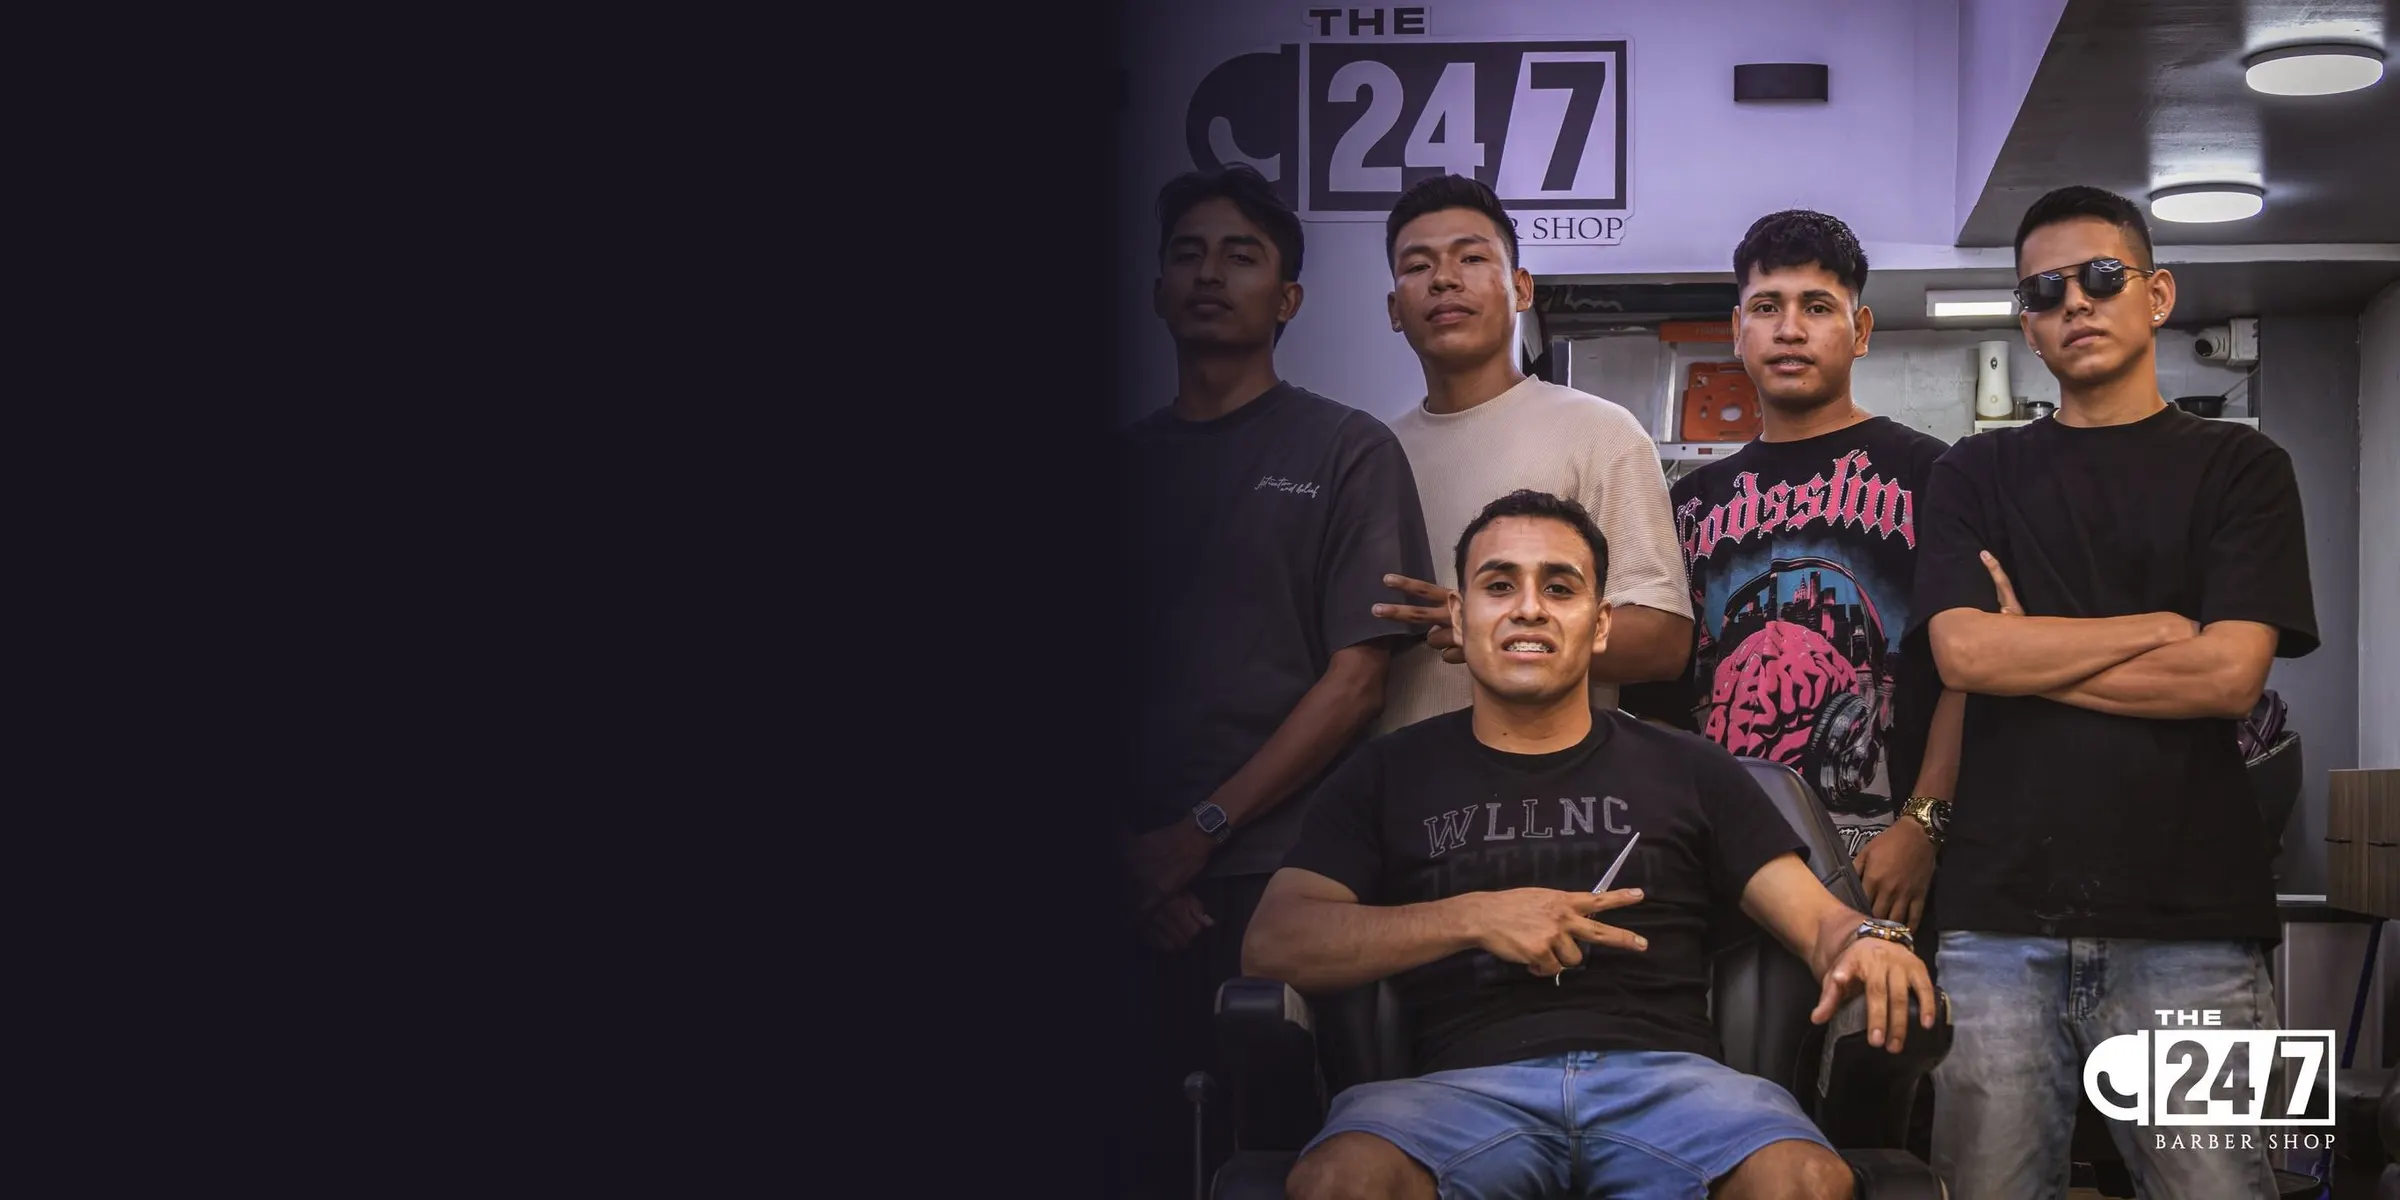
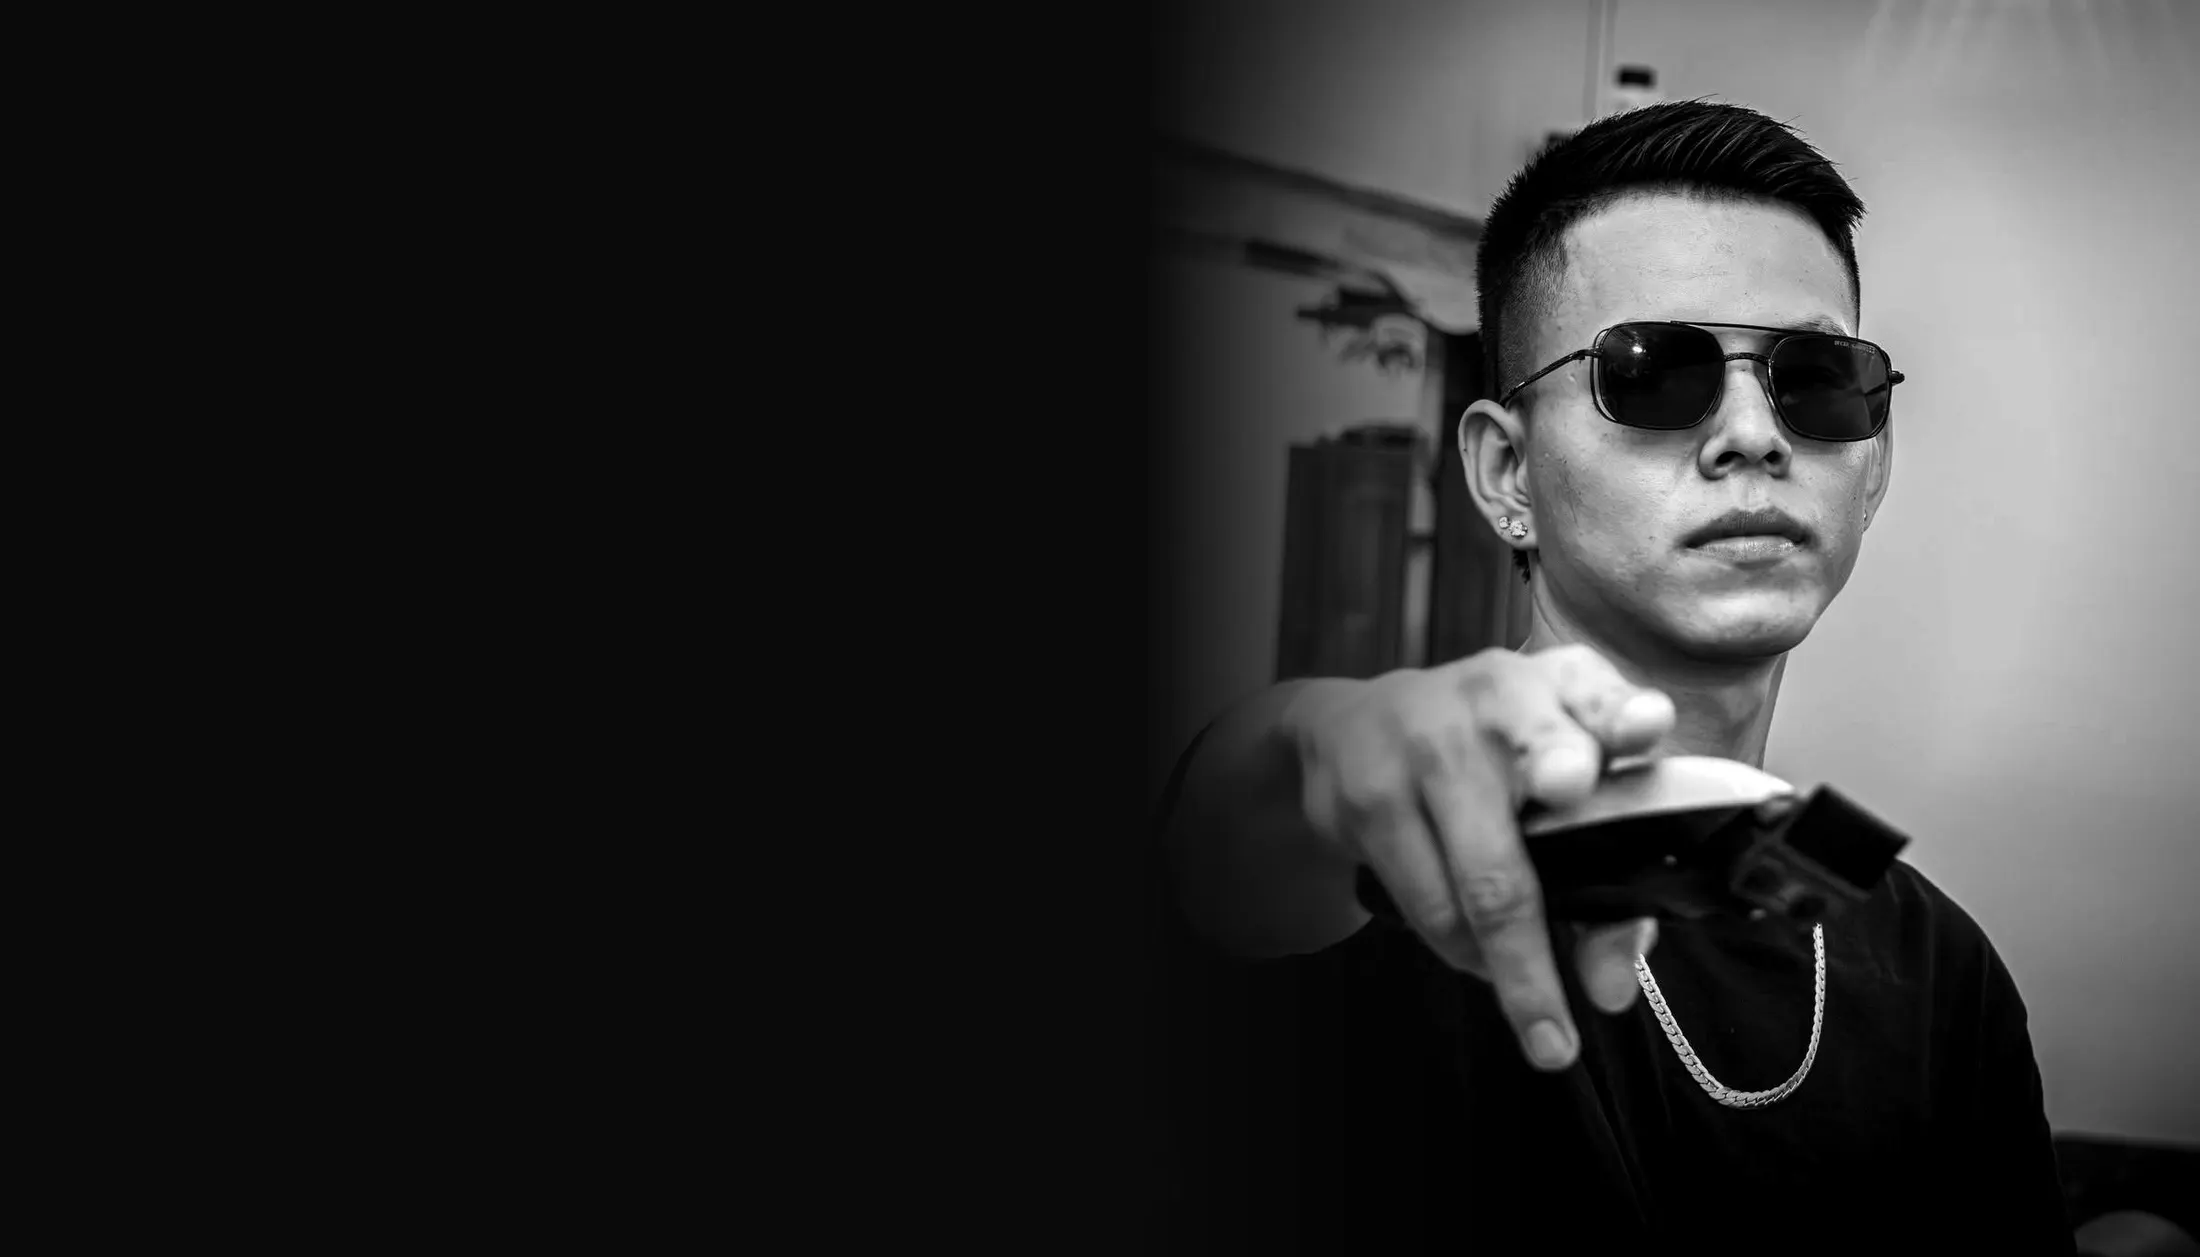
feat(luxury): portada propia para el celular; The 24/7 en blanco y negro
- apariencia.portadaLuxuryMovil: la portada vertical del celular (≤700 px). Sin ella, la misma
  de la compu, como hasta ahora.
- The 24/7: portada nueva en blanco y negro con contraste fuerte y viñeta. En la compu, ancha con
  la cara a la derecha (sin cortar el pelo ni el logo de agua); en el celular, vertical con la
  cara arriba (scripts/the247-portada.sql la activa).

diff --git a/modules/tu-pagina/publico/LuxuryPortada.tsx b/modules/tu-pagina/publico/LuxuryPortada.tsx
@@ -15,6 +15,8 @@ type Props = {
   logo?: string;
   portada?: string;
   portadaSecundaria?: string;
+  /** La portada en el celular (vertical, cara arriba). Sin ella, la misma de la compu. */
+  portadaMovil?: string;
   servicio?: ServicioDestacado;
   inicioHref: string;
   reservarHref: string;
@@ -23,7 +25,7 @@ type Props = {
 };
 
 /** El desplazamiento vertical mueve lateralmente las dos escenas, también en móvil. */
-export default function LuxuryPortada({ titulo, frase, etiqueta, logo, portada, portadaSecundaria, servicio, inicioHref, reservarHref, catalogoDisponible, catalogoProductosDisponible = false }: Props) {
+export default function LuxuryPortada({ titulo, frase, etiqueta, logo, portada, portadaSecundaria, portadaMovil, servicio, inicioHref, reservarHref, catalogoDisponible, catalogoProductosDisponible = false }: Props) {
   const marco = useRef<HTMLDivElement>(null);
   const fijo = useRef<HTMLDivElement>(null);
   const pista = useRef<HTMLDivElement>(null);
@@ -94,7 +96,8 @@ export default function LuxuryPortada({ titulo, frase, etiqueta, logo, portada, 
   return <div className="tp-luxury-motion" ref={marco} data-escena={escena}>
     <div className="tp-luxury-motion__fijo" ref={fijo}>
       <div className="tp-luxury-motion__pista" ref={pista}>
-        <section className={`tp-luxury-hero${!portada || portada === PORTADA_LUXURY ? ' tp-luxury-hero--foto-ejemplo' : ''}`} aria-label={`Bienvenidos a ${titulo}`} style={fondo(portada, PORTADA_LUXURY)}>
+        <section className={`tp-luxury-hero${!portada || portada === PORTADA_LUXURY ? ' tp-luxury-hero--foto-ejemplo' : ''}${portadaMovil ? ' tp-luxury-hero--con-movil' : ''}`} aria-label={`Bienvenidos a ${titulo}`}
+          style={{ ...fondo(portada, PORTADA_LUXURY), ...(portadaMovil ? { ['--tp-portada-movil' as string]: `url("${portadaMovil}")` } : {}) }}>
           <nav className="tp-luxury-nav" aria-label="Navegación de la página">
             <a className="tp-luxury-brand" href={inicioHref} aria-label={`${titulo}, inicio`}>
               {logo && <span className="tp-luxury-brand__logo" style={{ backgroundImage: `url("${logo}")` }} aria-hidden="true" />}

diff --git a/modules/tu-pagina/estilos/publica.css b/modules/tu-pagina/estilos/publica.css
@@ -1687,3 +1687,7 @@ button.tp-canchas__casilla { cursor: pointer; }
 .tp-plazo--fin { display: block; border-radius: 16px; background: #fdecea; color: #7a271a; text-align: center; }
 /* Sin sede elegida: aviso en lugar de días y horas (cada sede tiene su aforo). */
 .tp-falta-sede { margin: 14px 0 4px; padding: 14px 16px; border: 1.5px dashed var(--tp-borde); border-radius: 18px; color: var(--tp-suave); font-size: 14px; text-align: center; }
+/* Luxury: portada propia del celular (apariencia.portadaLuxuryMovil). Gana al fondo en línea. */
+@media (max-width: 700px) {
+  .tp-luxury-hero.tp-luxury-hero--con-movil { background-image: var(--tp-portada-movil) !important; background-position: center top !important; }
+}

diff --git a/modules/tu-pagina/publico/Marco.tsx b/modules/tu-pagina/publico/Marco.tsx
@@ -95,6 +95,7 @@ export function Cabecera({ pagina, fotoDestacada, servicioDestacado, catalogoDis
       logo={fotoEnCirculo(pagina.logo_url) || undefined}
       portada={fotoPortada || undefined}
       portadaSecundaria={a.portadaLuxurySecundaria}
+      portadaMovil={a.portadaLuxuryMovil && /^https:\/\/\S+$/.test(a.portadaLuxuryMovil) ? a.portadaLuxuryMovil : undefined}
       servicio={servicioDestacado}
       inicioHref={`./${pagina.slug}`}
       reservarHref={`./${pagina.slug}/reservar`}

diff --git a/modules/tu-pagina/dominio/apariencia.ts b/modules/tu-pagina/dominio/apariencia.ts
@@ -25,6 +25,8 @@ export interface AparienciaPagina {
   fotoPlantilla?: string;
   /** Foto opcional del segundo banner de Luxury; sin ella se usa la de la plantilla. */
   portadaLuxurySecundaria?: string;
+  /** Luxury: la portada en el celular (vertical). Sin ella, la misma que en la compu. */
+  portadaLuxuryMovil?: string;
   /** Estudio de uñas: contenido e imagen de la sección inferior. */
   tituloSeccionUnas?: string;
   textoSeccionUnas?: string;
